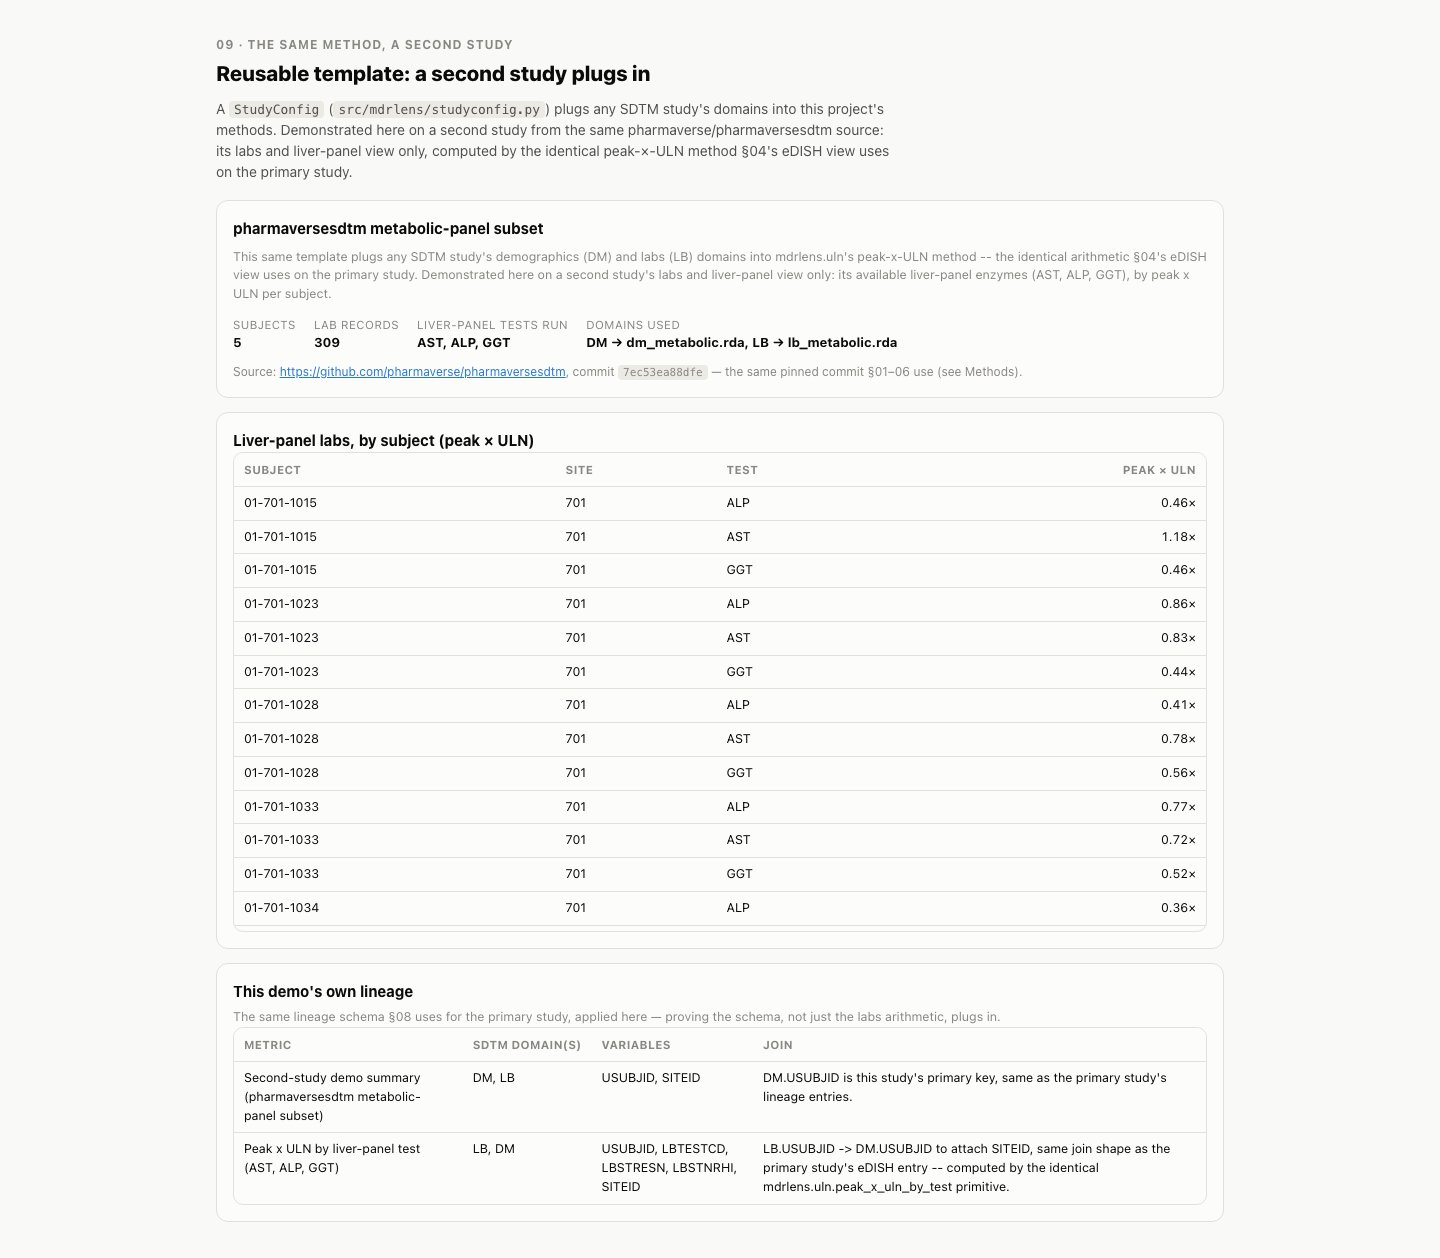
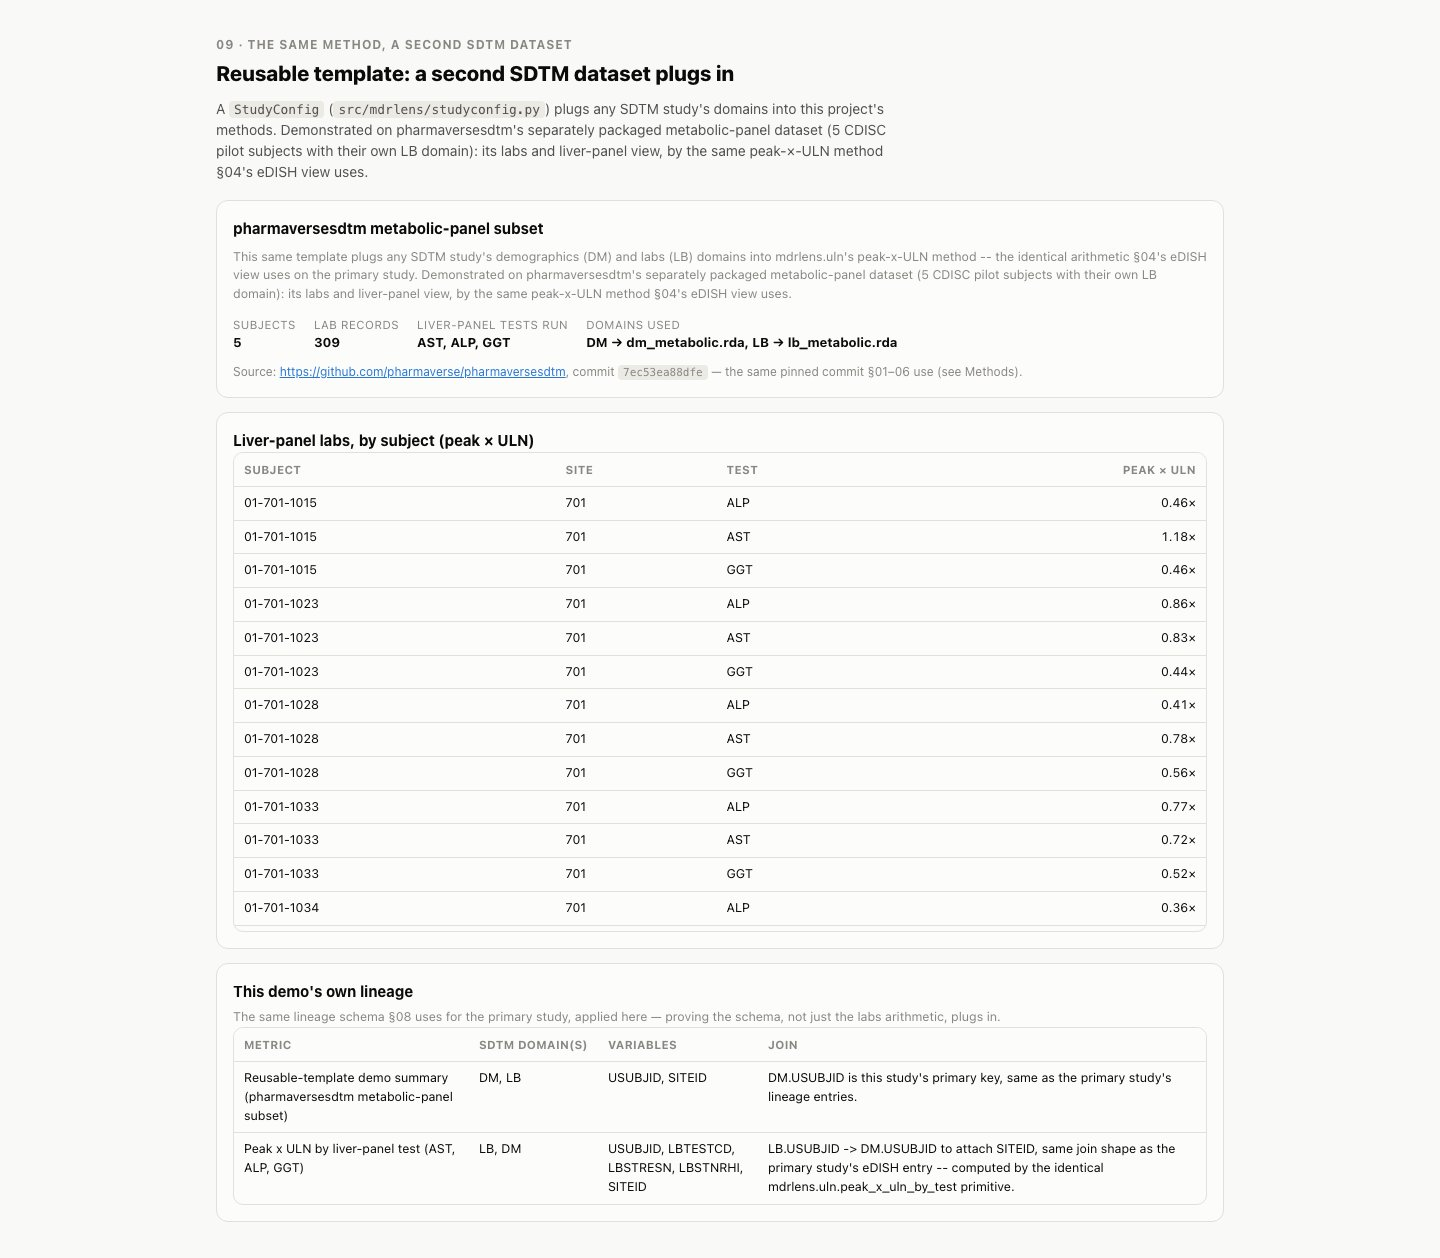
Fix employer-review findings on increment B: accuracy, §07 tone, link
1. ACCURACY (blocker): pharmaversesdtm's "metabolic" dm/lb subset is the
   SAME CDISC pilot study's own 5 subjects already in the primary DM, not
   a second study -- verified independently (STUDYID, USUBJID set, AGE,
   SEX and RFSTDTC all identical to data/raw/dm.rda). Reworded every
   reader-visible "second study" claim (page §09 eyebrow/title/dek,
   README, the lineage label and the StudyConfig.enables text rendered on
   screen) to describe it truthfully: a separately packaged metabolic-
   panel dataset for the same pilot subjects. Also corrected the same
   claim in docstrings/comments (studyconfig.py, second_study.py, the
   fetch/build scripts, test docstrings) for consistency. Code and test
   identifiers (SECOND_STUDY, mdrlens.second_study, study_key
   "metabolic_demo", test names) are unchanged, per direction.

2. §07 TONE: on-screen Basis paragraph is now one plain line ("Basis: four
   public documents, fetched from their official hosting and dated
   below."). The compliance/certification disclaimer and the sentence
   about employers' internal processes no longer appear anywhere on
   screen; the compliance/certification sentence now lives only in
   docs/MDR_PLAN.md.

3. Replaced the fragile TransCelerate WordPress permalink
   (?p=65) with its canonical URL
   (https://www.transceleratebiopharmainc.com/initiatives/risk-based-monitoring/),
   confirmed to resolve directly with HTTP 200 (and as the ?p=65 redirect
[…]

diff --git a/web/data.js b/web/data.js
@@ -18562,7 +18562,7 @@ window.MDR_DATA = {
   "study_in_flight": {
     "cycle_epoch": "2026-11-12",
     "run_date": "2026-11-17",
-    "last_refresh_utc": "2026-11-17T18:04:09.093182+00:00",
+    "last_refresh_utc": "2026-11-17T18:18:07.068642+00:00",
     "first_patient_in": "2012-07-09",
     "replay_window_end": "2015-03-05",
     "n_cuts": 34,
@@ -23407,7 +23407,7 @@ window.MDR_DATA = {
     ],
     "n_subjects": 5,
     "n_lb": 309,
-    "enables": "This same template plugs any SDTM study's demographics (DM) and labs (LB) domains into mdrlens.uln's peak-x-ULN method -- the identical arithmetic \u00a704's eDISH view uses on the primary study. Demonstrated here on a second study's labs and liver-panel view only: its available liver-panel enzymes (AST, ALP, GGT), by peak x ULN per subject."
+    "enables": "This same template plugs any SDTM study's demographics (DM) and labs (LB) domains into mdrlens.uln's peak-x-ULN method -- the identical arithmetic \u00a704's eDISH view uses on the primary study. Demonstrated on pharmaversesdtm's separately packaged metabolic-panel dataset (5 CDISC pilot subjects with their own LB domain): its labs and liver-panel view, by the same peak-x-ULN method \u00a704's eDISH view uses."
   },
   "second_study_labs": [
     {
@@ -23504,7 +23504,7 @@ window.MDR_DATA = {
   "second_study_lineage": [
     {
       "metric_id": "metabolic_demo.summary",
-      "label": "Second-study demo summary (pharmaversesdtm metabolic-panel subset)",
+      "label": "Reusable-template demo summary (pharmaversesdtm metabolic-panel subset)",
       "page_section": "template",
       "domains": [
         "dm",
@@ -23515,7 +23515,7 @@ window.MDR_DATA = {
         "SITEID"
       ],
       "join": "DM.USUBJID is this study's primary key, same as the primary study's lineage entries.",
-      "notes": "This same template plugs any SDTM study's demographics (DM) and labs (LB) domains into mdrlens.uln's peak-x-ULN method -- the identical arithmetic \u00a704's eDISH view uses on the primary study. Demonstrated here on a second study's labs and liver-panel view only: its available liver-panel enzymes (AST, ALP, GGT), by peak x ULN per subject.",
+      "notes": "This same template plugs any SDTM study's demographics (DM) and labs (LB) domains into mdrlens.uln's peak-x-ULN method -- the identical arithmetic \u00a704's eDISH view uses on the primary study. Demonstrated on pharmaversesdtm's separately packaged metabolic-panel dataset (5 CDISC pilot subjects with their own LB domain): its labs and liver-panel view, by the same peak-x-ULN method \u00a704's eDISH view uses.",
       "source_kinds": [
         "CRF (site-entered)",
         "non-CRF (central-lab feed)"

diff --git a/web/index.html b/web/index.html
@@ -486,10 +486,8 @@
           committee meetings.
         </p>
         <p class="dek">
-          <strong>Basis, not a compliance claim:</strong> built on four public documents,
-          fetched from their official hosting and dated below. This plan does not claim
-          compliance with, or certification against, any of them, and makes no statement
-          about any employer's internal Medical Data Review processes. Full plan:
+          <strong>Basis:</strong> four public documents, fetched from their official
+          hosting and dated below. Full plan:
           <a href="https://github.com/blehman/mdr-lens/blob/main/docs/MDR_PLAN.md" target="_blank" rel="noopener">docs/MDR_PLAN.md</a>.
         </p>
       </div>
@@ -557,14 +555,14 @@
   <section class="view" id="template">
     <div class="wrap">
       <div class="section-head">
-        <div class="eyebrow">09 · the same method, a second study</div>
-        <h2>Reusable template: a second study plugs in</h2>
+        <div class="eyebrow">09 · the same method, a second SDTM dataset</div>
+        <h2>Reusable template: a second SDTM dataset plugs in</h2>
         <p class="dek">
           A <code>StudyConfig</code> (<code>src/mdrlens/studyconfig.py</code>) plugs any SDTM
-          study's domains into this project's methods. Demonstrated here on a second study from
-          the same pharmaverse/pharmaversesdtm source: its labs and liver-panel view only,
-          computed by the identical peak-×-ULN method §04's eDISH view uses on the primary
-          study.
+          study's domains into this project's methods. Demonstrated on pharmaversesdtm's
+          separately packaged metabolic-panel dataset (5 CDISC pilot subjects with their own LB
+          domain): its labs and liver-panel view, by the same peak-×-ULN method §04's eDISH view
+          uses.
         </p>
       </div>
       <div class="card" id="template-summary-card"></div>

diff --git a/web/app.js b/web/app.js
@@ -1044,13 +1044,13 @@
     renderLineageTable("lineage-table-body", DATA.lineage, true);
   }
 
-  // ================= 09 REUSABLE TEMPLATE: SECOND STUDY =================
+  // ================= 09 REUSABLE TEMPLATE: SECOND SDTM DATASET =================
   function renderSecondStudy() {
     var summaryCard = document.getElementById("template-summary-card");
     var summary = DATA.second_study_summary;
     if (!summary) {
       summaryCard.innerHTML =
-        '<p class="caption">Second-study demo not generated for this build — run ' +
+        '<p class="caption">Reusable-template demo not generated for this build — run ' +
         '<code>scripts/fetch_second_study.py</code> then <code>scripts/build_second_study.py</code>.</p>';
       document.getElementById("template-labs-table-body").innerHTML = "";
       document.getElementById("template-lineage-table-body").innerHTML = "";

diff --git a/src/mdrlens/studyconfig.py b/src/mdrlens/studyconfig.py
@@ -13,11 +13,13 @@ vs. non-CRF (e.g. a central-lab feed) -- the same distinction README's
 study.
 
 PRIMARY_STUDY describes this project's existing five-domain replay (§01-06).
-SECOND_STUDY proves the template on a second, smaller SDTM subset also
-redistributed by pharmaverse/pharmaversesdtm at the same pinned commit
-(see scripts/fetch_data.py): its "metabolic" demographics and labs tables.
-That subset plugs in DM (demographics) and LB (labs) only, enabling the
-labs and liver-panel view only -- see mdrlens.second_study.
+SECOND_STUDY proves the template on pharmaversesdtm's separately packaged
+metabolic-panel dataset: the same pinned commit's (see scripts/fetch_data.py)
+"metabolic" demographics and labs tables, for the same 5 subjects of the
+CDISC pilot study already in the primary DM (same STUDYID, same USUBJIDs,
+identical AGE/SEX/RFSTDTC), packaged with their own LB domain. That dataset
+plugs in DM (demographics) and LB (labs) only, enabling the labs and
+liver-panel view only -- see mdrlens.second_study.
 """
 
 from __future__ import annotations
@@ -68,12 +70,13 @@ PRIMARY_STUDY = StudyConfig(
     ),
 )
 
-# Proves the template on a second SDTM subset from the SAME pharmaverse
-# community source: pharmaversesdtm's "metabolic" demographics and labs
-# tables -- a smaller, 5-subject population with its own LB domain. That
-# LB domain carries AST, ALP and GGT from the liver panel (not ALT or
+# Proves the template on pharmaversesdtm's separately packaged metabolic-
+# panel dataset: the same 5 CDISC pilot subjects already in the primary
+# DM (identical STUDYID, USUBJID, AGE/SEX/RFSTDTC -- verified against
+# data/raw/dm.rda), repackaged by pharmaverse with their own LB domain.
+# That LB domain carries AST, ALP and GGT from the liver panel (not ALT or
 # BILI), so this config's liver_panel_tests is exactly that subset -- the
-# template reports peak x ULN for whichever liver-panel tests a study
+# template reports peak x ULN for whichever liver-panel tests a dataset
 # actually ran, never a fabricated value for one it didn't.
 SECOND_STUDY = StudyConfig(
     study_key="metabolic_demo",
@@ -88,8 +91,9 @@ SECOND_STUDY = StudyConfig(
         "This same template plugs any SDTM study's demographics (DM) and "
         "labs (LB) domains into mdrlens.uln's peak-x-ULN method -- the "
         "identical arithmetic §04's eDISH view uses on the primary study. "
-        "Demonstrated here on a second study's labs and liver-panel view "
-        "only: its available liver-panel enzymes (AST, ALP, GGT), by peak "
-        "x ULN per subject."
+        "Demonstrated on pharmaversesdtm's separately packaged metabolic-"
+        "panel dataset (5 CDISC pilot subjects with their own LB domain): "
+        "its labs and liver-panel view, by the same peak-x-ULN method "
+        "§04's eDISH view uses."
     ),
 )

diff --git a/src/mdrlens/second_study.py b/src/mdrlens/second_study.py
@@ -1,8 +1,11 @@
-"""Second-study demo: proves mdrlens.studyconfig.SECOND_STUDY plugs a
-different SDTM (Study Data Tabulation Model) subset into this project's
-labs & liver-panel method -- the same mdrlens.uln.peak_x_uln_by_test
-primitive mdrlens.hyslaw uses for the primary study's eDISH view -- on a
-second study's DM (demographics) and LB (labs) domains only.
+"""Reusable-template demo: proves mdrlens.studyconfig.SECOND_STUDY plugs a
+separately packaged SDTM (Study Data Tabulation Model) dataset into this
+project's labs & liver-panel method -- the same mdrlens.uln.peak_x_uln_by_test
+primitive mdrlens.hyslaw uses for the primary study's eDISH view -- on that
+dataset's own DM (demographics) and LB (labs) domains only. SECOND_STUDY is
+pharmaversesdtm's "metabolic" subset: the same CDISC pilot study's own 5
+subjects already in the primary DM (same STUDYID, USUBJID, AGE/SEX/RFSTDTC),
+not a second study.
 
 Run via `scripts/fetch_second_study.py` then `scripts/build_second_study.py`
 (same two-step fetch-then-build shape as the primary study's
@@ -55,7 +58,7 @@ def build_second_study_lineage(config: StudyConfig) -> list[dict]:
     entries = (
         LineageEntry(
             metric_id=f"{config.study_key}.summary",
-            label=f"Second-study demo summary ({config.display_name})",
+            label=f"Reusable-template demo summary ({config.display_name})",
             page_section="template",
             domains=tuple(config.domain_files.keys()),
             variables=("USUBJID", "SITEID"),

diff --git a/scripts/fetch_second_study.py b/scripts/fetch_second_study.py
@@ -1,11 +1,11 @@
 #!/usr/bin/env python
-"""Fetch the second-study demo's raw SDTM domains (DM + LB only), proving
-mdrlens.studyconfig.SECOND_STUDY's template on pharmaversesdtm's
-"metabolic" subset -- the same pinned commit scripts/fetch_data.py uses,
-redistributed by the same pharmaverse/pharmaversesdtm community source
-(Apache-2.0). See mdrlens.second_study for what this subset's demographics
-(DM) and labs (LB) domains are used for: the labs and liver-panel view
-only.
+"""Fetch the reusable-template demo's raw SDTM domains (DM + LB only),
+proving mdrlens.studyconfig.SECOND_STUDY's template on pharmaversesdtm's
+separately packaged "metabolic" dataset -- the same CDISC pilot subjects
+already fetched by scripts/fetch_data.py, same pinned commit, redistributed
+by the same pharmaverse/pharmaversesdtm community source (Apache-2.0). See
+mdrlens.second_study for what this dataset's demographics (DM) and labs (LB)
+domains are used for: the labs and liver-panel view only.
 
 Writes raw .rda files to data/raw/second_study/ (gitignored, same as
 data/raw/) and records the source URL + sha256 of every file in

diff --git a/tests/test_second_study.py b/tests/test_second_study.py
@@ -108,8 +108,8 @@ def test_second_study_config_is_the_real_one_used_by_the_scripts():
     assert SECOND_STUDY.liver_panel_tests == ("AST", "ALP", "GGT")
 
 
-# --- independent recount against the committed raw + derived second-study
-# files, same pattern as tests/test_independent_recount.py ---
+# --- independent recount against the committed raw + derived
+# reusable-template-demo files, same pattern as tests/test_independent_recount.py ---
 
 _missing_raw = [f for f in ("dm_metabolic.rda", "lb_metabolic.rda") if not (RAW_DIR / f).exists()]
 _missing_derived = [
@@ -120,7 +120,7 @@ _missing_derived = [
 @pytest.mark.skipif(
     bool(_missing_raw or _missing_derived),
     reason=(
-        "Second-study independent recount needs both raw SDTM and derived JSON. Run: "
+        "Reusable-template demo independent recount needs both raw SDTM and derived JSON. Run: "
         "uv run python scripts/fetch_second_study.py && uv run python scripts/build_second_study.py "
         f"(missing raw={_missing_raw}, missing derived={_missing_derived})"
     ),

diff --git a/scripts/build_second_study.py b/scripts/build_second_study.py
@@ -1,6 +1,6 @@
 #!/usr/bin/env python
-"""Build the second-study demo's derived JSON from its raw SDTM domains
-(run scripts/fetch_second_study.py first). Proves mdrlens.studyconfig's
+"""Build the reusable-template demo's derived JSON from its raw SDTM
+domains (run scripts/fetch_second_study.py first). Proves mdrlens.studyconfig's
 StudyConfig template end to end: fetch -> build -> page section (§09),
 the same fetch-then-build shape scripts/fetch_data.py + scripts/build.py
 use for the primary study.
@@ -66,7 +66,7 @@ def main() -> None:
     ]:
         print(f"wrote {path.relative_to(ROOT)}")
 
-    print(f"second study: {summary['n_subjects']} subjects, {len(labs)} liver-panel lab peaks")
+    print(f"reusable-template demo: {summary['n_subjects']} subjects, {len(labs)} liver-panel lab peaks")
     pack_web_data()
 
 

diff --git a/tests/test_uln.py b/tests/test_uln.py
@@ -84,8 +84,8 @@ def test_peak_x_uln_by_test_picks_peak_per_subject_per_test():
 
 def test_peak_x_uln_by_test_omits_rows_for_a_test_never_run():
     """A study whose LB domain never ran one of `tests` (e.g. no BILI draws
-    at all, like the second-study metabolic subset) yields no row for that
-    test -- never a fabricated zero or null row."""
+    at all, like pharmaversesdtm's separately packaged metabolic dataset)
+    yields no row for that test -- never a fabricated zero or null row."""
     lb = pd.DataFrame([{"USUBJID": "S1", "LBTESTCD": "AST", "LBSTRESN": 54.0, "LBSTNRHI": 34.0}])
     rows = peak_x_uln_by_test(lb, ["S1"], ["AST", "BILI"])
     assert {r["test"] for r in rows} == {"AST"}

diff --git a/src/mdrlens/build.py b/src/mdrlens/build.py
@@ -436,7 +436,7 @@ def pack_web_data() -> Path:
         print(f"NOTE: {registry_path.relative_to(ROOT)} not found -- run scripts/fetch_registry.py. "
               "Bundling registry_summary=null so the page still builds.")
 
-    # Second-study template demo: written by scripts/build_second_study.py,
+    # Reusable-template demo: written by scripts/build_second_study.py,
     # a one-time proof of mdrlens.studyconfig's reusable template, not part
     # of the daily refresh (see that script's docstring). Bundled the same
     # optional way as the registry above: if a bare clone hasn't run it

diff --git a/README.md b/README.md
@@ -25,7 +25,7 @@ committee meetings) views, built two ways:
 4. **§07–09** — a sample Medical Data Review plan built on public ICH/FDA/
    TransCelerate guidance as its basis (`docs/MDR_PLAN.md`), a traceability view
    tying every number above to its source SDTM domain and variables, and a
-   reusable study-config template proven on a second study's labs and
+   reusable study-config template proven on a second SDTM dataset's labs and
    liver-panel view.
 
 Pilot data: the long-standing CDISC (Clinical Data Interchange Standards Consortium)
@@ -69,8 +69,8 @@ real patient, and none of it is related to any employer's systems.
 | ![Site key-risk-indicator funnel plots](docs/screenshots/desktop_05_sites.jpg) | ![Data quality by SDTM domain](docs/screenshots/desktop_06_quality.jpg) |
 | **Sample MDR plan (§07)** | **Traceability / lineage (§08)** |
 | ![Sample Medical Data Review plan: CtQ factor to risk to view to threshold to milestone to reviewer](docs/screenshots/desktop_08_mdrplan.jpg) | ![Traceability table: page number to SDTM domain and variables](docs/screenshots/desktop_09_lineage.jpg) |
-| **Reusable template: a second study (§09)** | |
-| ![Reusable study-config template demonstrated on a second study's labs and liver-panel view](docs/screenshots/desktop_10_template.jpg) | |
+| **Reusable template: a second SDTM dataset (§09)** | |
+| ![Reusable study-config template demonstrated on pharmaversesdtm's separately packaged metabolic-panel dataset's labs and liver-panel view](docs/screenshots/desktop_10_template.jpg) | |
 
 Phone layouts: `docs/screenshots/iphone14_0*.jpg`.
 
@@ -163,10 +163,11 @@ EDC (Electronic Data Capture) system and query workflow would.
   names which SDTM domains a study supplies, which liver-panel tests its LB
   domain actually ran, and which domains are CRF vs. non-CRF. It plugs any
   SDTM study into `mdrlens.uln.peak_x_uln_by_test` — the same arithmetic §04's
-  eDISH view uses — and is demonstrated here on a second study from
-  pharmaversesdtm: its "metabolic" demographics and labs subset (5 subjects),
-  rendering the labs and liver-panel view only (its available AST, ALP and
-  GGT liver-panel tests, by peak × ULN per subject). Fetch and build it with
+  eDISH view uses — and is demonstrated on pharmaversesdtm's separately
+  packaged "metabolic" demographics and labs dataset (5 CDISC pilot subjects
+  with their own LB domain), rendering the labs and liver-panel view only
+  (its available AST, ALP and GGT liver-panel tests, by peak × ULN per
+  subject). Fetch and build it with
   `uv run python scripts/fetch_second_study.py && uv run python scripts/build_second_study.py`;
   pinned by `tests/test_studyconfig.py` and `tests/test_second_study.py`.
 
@@ -244,7 +245,7 @@ those files and writes the small derived JSON in `data/derived/` plus
 §09's reusable-template demo is a one-time proof, not part of the command above
 (see "Medical Data Review plan, traceability & reusable template" above): run
 `uv run python scripts/fetch_second_study.py && uv run python scripts/build_second_study.py`
-to regenerate it from the second study's own raw SDTM subset; its derived JSON
+to regenerate it from that separately packaged dataset's own raw SDTM files; its derived JSON
 is committed as a static demo, same as §03–06's look back at the primary study.
 
 ## QA

diff --git a/docs/MDR_PLAN.md b/docs/MDR_PLAN.md
@@ -34,7 +34,8 @@ statement about any employer's internal Medical Data Review processes.
    Risk-Based Quality Management (RBQM): the Risk Assessment and
    Categorization Tool (RACT) template/example and the Risk Indicator
    Library.
-   <https://transceleratebiopharmainc.com/?p=65> (initiative overview) and
+   <https://www.transceleratebiopharmainc.com/initiatives/risk-based-monitoring/>
+   (initiative overview) and
    <https://www.transceleratebiopharmainc.com/rbminteractiveguide/rbm-toolbox/>
    (toolbox listing the RACT and Risk Indicator Library).
    **Fetched 2026-11-17.**
@@ -43,6 +44,9 @@ statement about any employer's internal Medical Data Review processes.
    <https://www.fda.gov/media/116754/download>
    (guidance page: <https://www.fda.gov/regulatory-information/search-fda-guidance-documents/oversight-clinical-investigations-risk-based-approach-monitoring>).
    **Fetched 2026-11-17.**
+
+This sample plan cites these documents as its basis; it does not claim
+compliance or certification.
 
 These four public documents are this plan's **basis** — the language
 below (critical-to-quality factors, quality by design, risk-based
